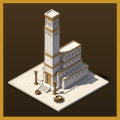
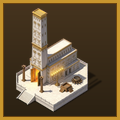
Title of Liberty: the temple in stone and gold, with its great lampstand
Blake: "Let's make the temple more to the dimensions in the Bible and make
the whole thing more gold with seriphs, huge light lamp stand, alters,
etc ... Golden outside to make it really standout?"

Decided with him (request 021): stone and gold, lit within, since Solomon
overlaid the house "within" with gold (1 Kings 6:21-22) and the Nephites'
was "not built of so many precious things" (2 Nephi 5:16). A long house
of hewn stone carved with cherubims, palm trees and open flowers picked
out in gold (1 Kings 6:29), gold doors open on a glow (6:32), the porch
tower rising far above it (2 Chronicles 3:4), two pillars of brass, the
altar of brass and the sea on twelve oxen; and a great golden lampstand
in the court whose seven lamps burn with the painted flames (game
license: the candlesticks stood inside, 1 Kings 7:49; the temple's text
says so). Three Gemini runs: two layouts shown in the game, then the
chosen one touched up taller with a bigger lampstand.

Also fixes the old temple being drawn far larger than its plot and off
to one side (its sprite numbers were never updated), which left its plot
looking empty.

Claude-Session: https://claude.ai/code/session_01Q4ES8mgC6R6KD4i9kHrmBw

diff --git a/liberty/ui.js b/liberty/ui.js
@@ -84,7 +84,7 @@ IMG.armory.src = 'assets/armory.png?v=13';
 IMG.granary.src = 'assets/granary.png?v=2';      // and these: 007-buildings.md (with shadows since)
 IMG.stables.src = 'assets/stables.png?v=2';
 IMG.hall.src = 'assets/hall.png?v=2';
-IMG.temple.src = 'assets/temple.png?v=2';           // after the manner of Solomon's (018)
+IMG.temple.src = 'assets/temple.png?v=3';           // after the manner of Solomon's, in stone and gold, with its lampstand (021)
 IMG.ruin.src = 'assets/ruin.png?v=1';
 IMG.lamaniteCamp.src = 'assets/lamanite_camp.png?v=1';   // and these: 009-battlefield.md
 IMG.robbersCamp.src = 'assets/robbers_camp.png?v=1';
@@ -1299,7 +1299,7 @@ IMG.farm.src = 'assets/farm.png?v=13';
     idol_warrior: { cx: 226, by: 556, span: 450 },
     stables: { cx: 200, by: 318, span: 375 },
     hall: { cx: 200, by: 310, span: 400 },
-    temple: { cx: 168, by: 283, span: 295 },      // its stair pokes out past the platform's diamond
+    temple: { cx: 301, by: 870, span: 600 },
     ruin: { cx: 99, by: 154, span: 209 },
     lamaniteCamp: { cx: 210, by: 240, span: 419 },
     robbersCamp: { cx: 210, by: 242, span: 418 },
@@ -1355,6 +1355,7 @@ IMG.farm.src = 'assets/farm.png?v=13';
   // like a flipbook and added as light; incense rises before the idols. Points are in each picture's own pixels.
   const FX = {
     rameumptom: { fire: [[175, 247], [435, 247], [304, 330]] },
+    temple: { fire: [[385, 506], [371, 515], [358, 523], [344, 529], [329, 541], [315, 548], [301, 558]], fireH: 9 },   // the great lampstand's seven lamps (021)
     idol_jaguar: { smoke: [[90, 248], [230, 312]] },
     idol_warrior: { smoke: [[95, 362], [228, 428]] }
   };
@@ -1365,7 +1366,7 @@ IMG.farm.src = 'assets/farm.png?v=13';
     if (fx.fire && ready(IMG.flames)) {
       ctx.save(); ctx.globalCompositeOperation = 'lighter';
       fx.fire.forEach((p, k) => {
-        const [x, y] = at(p), i = Math.floor(now / 1000 * 11 + k * 2.3 + b.id) % 6, h = 16, w = h * 75 / 140;
+        const [x, y] = at(p), i = Math.floor(now / 1000 * 11 + k * 2.3 + b.id) % 6, h = fx.fireH || 16, w = h * 75 / 140;
         ctx.drawImage(IMG.flames, i * 75, 0, 75, 140, x - w / 2, y - h + 2, w, h);
       });
       ctx.restore();
@@ -2231,7 +2232,7 @@ IMG.farm.src = 'assets/farm.png?v=13';
     'build:armory': 'assets/cameo_armory.png?v=10',
     'build:stables': 'assets/cameo_stables.png?v=1',
     'build:hall': 'assets/cameo_hall.png?v=1',
-    'build:temple': 'assets/cameo_temple.png?v=2',
+    'build:temple': 'assets/cameo_temple.png?v=3',
     'build:smithy': 'assets/cameo_smithy.png?v=1',
     'build:training': 'assets/cameo_training.png?v=1',
     'train:bearer': 'assets/cameo_bearer.png?v=1',
@@ -2912,7 +2913,7 @@ IMG.farm.src = 'assets/farm.png?v=13';
     const T = TIPS[key] || TIPS.mission;
     const tabs = browse ? `<div class="row tipTabs">${Object.keys(TIPS).map(k => `<button class="btn ${k === key ? 'go' : ''}" data-tips="${k}">${esc(TIPS[k].title.replace(/^Free battle · /, ''))}</button>`).join('')}</div>` : '';
     openDialog(`<div class="dialog tipsCard"><div class="kicker">How to play</div><h2>${esc(T.title)}</h2>${tabs}
-      <ul class="tips">${T.tips.map(([pic, b, t]) => `<li><img src="assets/${pic}.png?v=3" alt=""><div><b>${esc(b)}</b><span>${esc(t)}</span></div></li>`).join('')}</ul>
+      <ul class="tips">${T.tips.map(([pic, b, t]) => `<li><img src="assets/${pic}.png?v=4" alt=""><div><b>${esc(b)}</b><span>${esc(t)}</span></div></li>`).join('')}</ul>
       <div class="row" style="margin-top:14px"><button class="btn go" id="tGot">Got it</button>${browse ? '' : '<button class="btn" id="tNever">Don\'t show again</button>'}</div></div>`);
     $('tGot').onclick = () => { closeDialog(); if (done) done(); };
     if ($('tNever')) $('tNever').onclick = () => { save.tips = save.tips || {}; save.tips[key] = 1; store(); closeDialog(); if (done) done(); };

diff --git a/liberty/data.js b/liberty/data.js
@@ -108,7 +108,7 @@
     hall:       { name: 'Hall of the captains', w: 3, h: 3, hp: 800, armor: 3, cost: { grain: 100, timber: 150, stone: 80 }, work: 36, needs: ['armory', 'smithy'], trains: ['javelin', 'stripling'], research: ['ladders'], tier: true,
                   about: 'Where the chief captains plan the war. Trains javelin throwers and stripling warriors. From history, not the verses: its stepped platform is like those built in ancient Mesoamerica.' },
     temple:     { name: 'Temple', w: 4, h: 4, hp: 1500, armor: 4, cost: { grain: 120, timber: 160, stone: 240 }, work: 60, needs: ['hall'], heals: 190, miracles: true, powers: 'miracles', tier: true,
-                  about: 'Built "after the manner of the temple of Solomon" (2 Nephi 5:16): a porch rising high before the house, and two pillars of brass before it (2 Chronicles 3:4; 1 Kings 7:15). Your people near it are made whole; the council comes back sooner and gives double, as at King Benjamin\'s tower by the temple (Mosiah 2:7); and miracles are worked from it.' },
+                  about: 'Built "after the manner of the temple of Solomon", though "not built of so many precious things" (2 Nephi 5:16): a long house of stone carved with "cherubims and palm trees and open flowers, within and without", its doors overlaid with gold (1 Kings 6:29, 32), a porch rising high before it (2 Chronicles 3:4), two pillars of brass, the altar of brass and the sea on twelve oxen (1 Kings 7:15, 25; 2 Chronicles 4:1). The great lampstand in its court is the game\'s: Solomon\'s ten candlesticks stood inside, "before the oracle" (1 Kings 7:49). Your people near it are made whole; the council comes back sooner and gives double, as at King Benjamin\'s tower by the temple (Mosiah 2:7); and miracles are worked from it.' },
     relic:      { name: 'Jaredite ruin', w: 2, h: 2, hp: 99999, armor: 9, neutral: true, untouchable: true, relic: true, tier: true,
                   about: 'The ruins of a people who were before. Limhi\'s men found such a land, "covered with ruins of buildings of every kind" (Mosiah 8:8), and in it plates, breastplates and swords. Send someone to see what this one holds.' },
     // The King-men's camp (design/evolution.md, section 4): tents round the war camp, raised by its bearers.

diff --git a/liberty/index.html b/liberty/index.html
@@ -455,12 +455,12 @@
 <script src="../vendor/qrcode.js"></script>
 <script src="webrtc.js?v=15"></script>
 <script src="multi.js?v=15"></script>
-<script src="data.js?v=30"></script>
+<script src="data.js?v=31"></script>
 <script src="sim.js?v=29"></script>
 <script src="camp.js?v=6"></script>
 <script src="missions.js?v=29"></script>
 <script src="save.js?v=1"></script>
 <script src="scripture.js?v=15"></script>
-<script src="ui.js?v=50"></script>
+<script src="ui.js?v=51"></script>
 </body>
 </html>

diff --git a/README.md b/README.md
@@ -261,7 +261,12 @@ way for their bearers, who can still build without one.
 
 **The temple and its miracles** (free battle, once the hall of the captains
 stands): built "after the manner of the temple of Solomon" (2 Nephi 5:16),
-mostly of stone. Your people near it are made whole; the council comes back
+mostly of stone: a long house carved with cherubims, palm trees and open
+flowers picked out in gold, its gold doors open on a glow, a porch tower
+rising far above it (2 Chronicles 3:4), two pillars of brass, the altar of
+brass and the sea on twelve oxen in its court, and a great golden lampstand
+whose seven lamps burn on the map (game license: Solomon's candlesticks
+stood inside, 1 Kings 7:49). Your people near it are made whole; the council comes back
 sooner and gives double, as at King Benjamin's tower by the temple
 (Mosiah 2:7); and seven miracles are worked from it, each falling where you
 tap next and then waiting its time: a pillar of fire that shields your people
@@ -348,7 +353,8 @@ warriors until they strike (Alma 58:6); and the king's call, six warriors at
 once (Alma 48:3). Huge idols, "dumb idols" with no power of their own
 (Alma 31:1), stir the people's zeal: each brings the works back sooner. The
 Freemen's temple is now built after the manner of Solomon's (2 Nephi 5:16),
-the tallest thing on the field, and Zarahemla is the chief judge's hall.
+the tallest thing on the field, and Zarahemla is the chief judge's palace,
+in the same white stone as the other Nephite buildings.
 The opponents work their own miracles and works too, except at Easy.
 
 **Walls that level up.** Every wall piece changes at once when its side

diff --git a/liberty/art/requests/021-temple-gold.md b/liberty/art/requests/021-temple-gold.md
@@ -1,9 +1,20 @@
 # 021 · The temple, after the manner of Solomon's: stone and gold, lit, with its lampstand
 
-**Status: in progress.** To be made with Gemini through Blake's n8n backup,
-repainted from the temple of request 018 set on a tall magenta canvas
-(`liberty/art/incoming/pr93/`, removed once done) so the porch tower has
-room.
+**Status: done.** Made with Gemini through Blake's n8n backup (executions
+13477–13479, three billed to the Merit3D Gemini account). Two layouts were
+painted from the temple of request 018 set on a tall magenta canvas: one
+with the porch tower at the end of the long house, one with the house across
+the back and an open court in front. Shown in the game at their true size,
+Blake chose the first, touched up: the porch tower raised about three times
+higher and the lampstand made twice as big (edited from the first painting
+padded with magenta above, so the tower had room). Cut out, de-spilled at
+the outline only, scaled to 150 px a square of plot (4 × 4), with the soft
+cast shadow; button picture made with `mkcameo.py`. The drafts
+(`liberty/art/incoming/pr93/`) were removed once done.
+
+The temple of request 018 was drawn far larger than its plot and off to one
+side of it (its sprite numbers were never updated for the new picture), so
+its plot looked empty; the new one stands on its own 4 × 4.
 
 ## What it's for
 

diff --git a/liberty/art/requests/018-great-buildings.md b/liberty/art/requests/018-great-buildings.md
@@ -30,7 +30,7 @@ plot a diamond twice as wide as tall, light from the upper left.
   porch of square pillars, a roofed seat of judgment on a dais before it,
   trees, all in a yard behind a bank of earth and pickets. Reference:
   `hall.png`.
-- **`temple.png`**, the temple "after the manner of the temple of Solomon"
+- **`temple.png`** (replaced in request 021: stone and gold, its lampstand in the court), the temple "after the manner of the temple of Solomon"
   (2 Nephi 5:16), 4 × 4: white limestone and gold on a pale platform; a porch
   tower that rises far above the house (2 Chronicles 3:4), gold doors, two
   pillars of brass with lily capitals (1 Kings 7:15), a wide stair, an altar,
